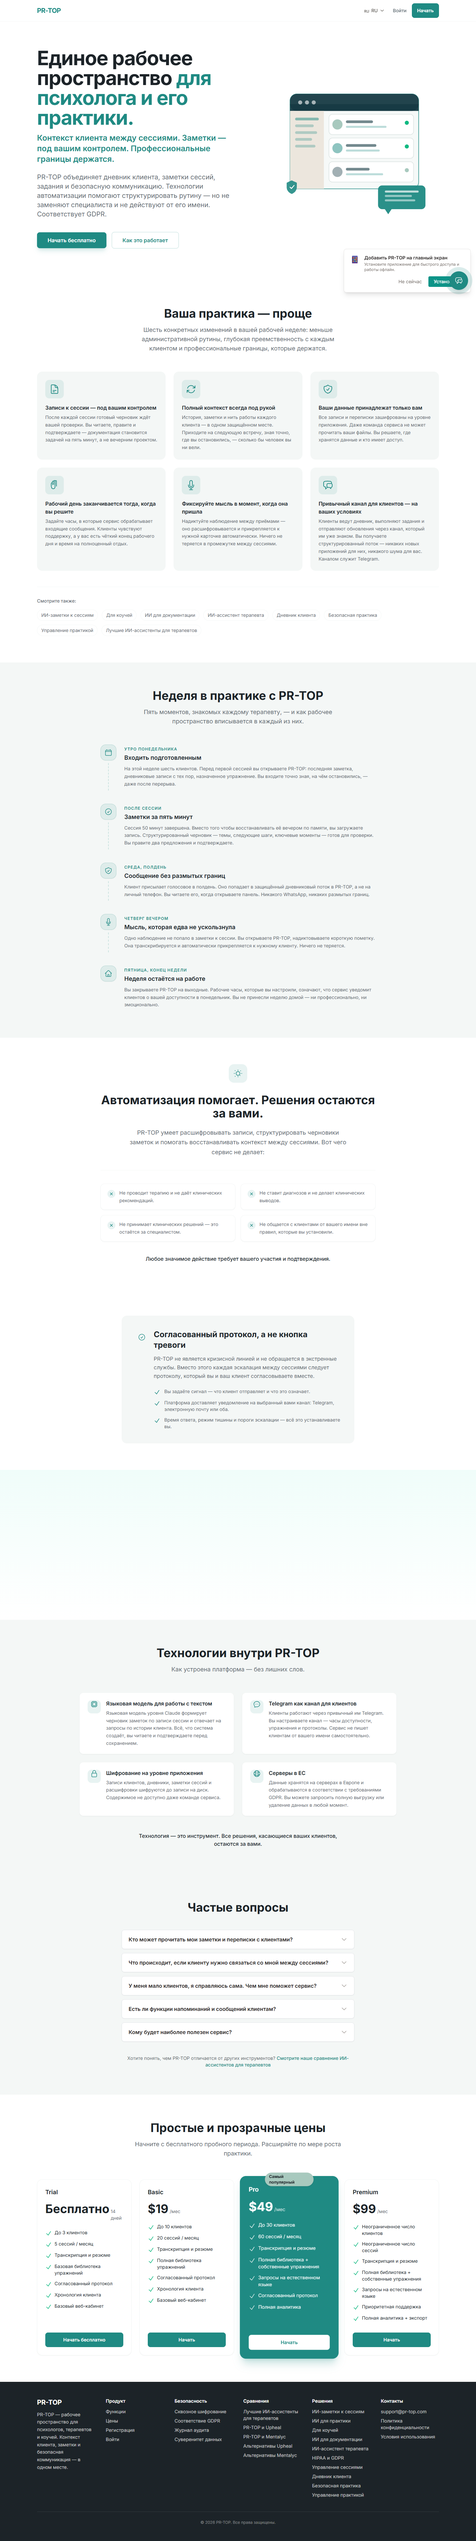
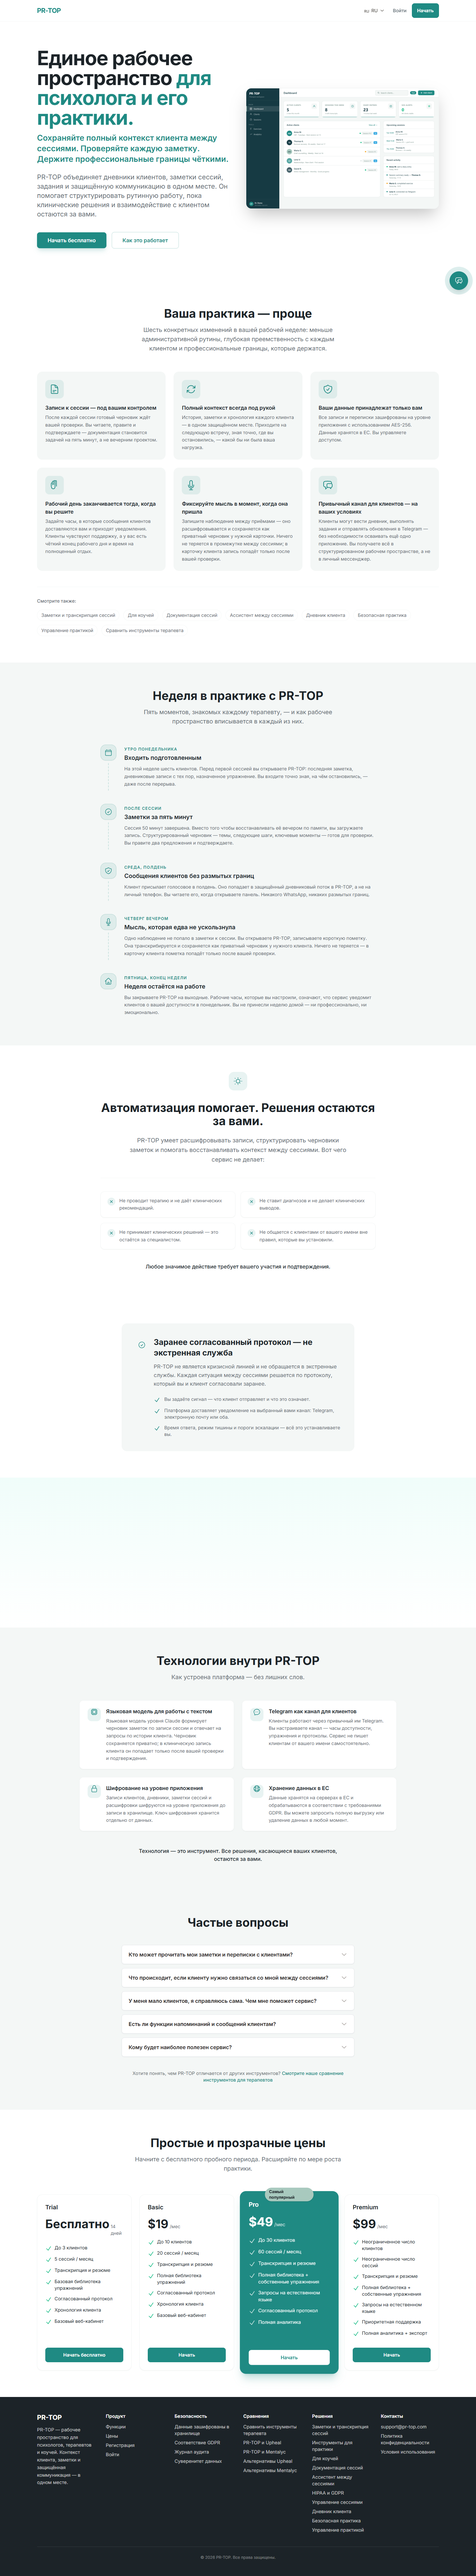
docs(seo): R21 fix pack from Wave-2 review + refresh review screenshots
Review findings on shipped R12-R20: R19 read its own empty template instead
of the owner-filled docs/seo/TRUST_FACTS.md (approved company facts absent
from the site); leftover 'end-to-end' heading on TherapyDocumentationAi;
hero .webp is a renamed PNG with a committed twin; screenshots skipped again
after R17/R18/R20 (re-captured here at 12:42).

diff --git a/docs/seo/AUTOFORGE_FEATURES_REPOSITIONING.md b/docs/seo/AUTOFORGE_FEATURES_REPOSITIONING.md
@@ -189,3 +189,12 @@ Source: second external UX audit after R1–R11 shipped. Verdict: the reposition
 1. Reword the label keys (all 4 locales); URLs and link count unchanged (assert in a puppeteer check: same hrefs before/after — snapshot the href list in the test).
 2. `node _t_link_graph_w6.js` passes (link-graph audit unchanged).
 3. Build + puppeteer `/` + `/ru/`: labels render, hrefs intact, no raw keys.
+
+### R21 — Wave-2 fix pack (findings of the 2026-07-14 R12–R20 review)
+**Description:** Four follow-ups from the owner-side review of the shipped Wave 2. **(a) R19 main defect — render the approved company facts.** The R19 agent created its own empty template at `docs/TRUST_FACTS.md` and never read the owner-filled **`docs/seo/TRUST_FACTS.md`** (the authoritative file, committed b1101c4). Result: `ProfessionalProofSection` renders nothing (`hasTrustFacts()` false) and the approved facts (ABH TEAM OÜ, registry code 14162982 with link to the public register, Estonia/EU, registered address, operating since 2016, support@pr-top.com) are absent from the site. Fix: extend the section (or a compact footer legal block) with a `legalEntity` fact group sourced from `docs/seo/TRUST_FACTS.md` "publish: yes" rows only, localized in all 4 locales; delete the duplicate `docs/TRUST_FACTS.md` and point every reference (trustFacts.js header comment) at `docs/seo/TRUST_FACTS.md`. Hard rules stay: no surnames, no personal codes, no invented numbers; testimonials/advisors arrays remain empty. **(b) R12 leftover:** `TherapyDocumentationAi.jsx` H2 "How PR-TOP handles therapy documentation end-to-end" — the phrase collides with the banned encryption term; reword (e.g. "…from session to record") in all locales that page has. **(c) R18 leftover:** `public/images/hero-dashboard.webp` is a renamed PNG (file magic `PNG`, 217 KB) and an identical `.png` twin is committed. Convert to real WebP (target ≤ 120 KB at 2560×1600 or downscale to 1920×1200), keep a single file, update the `<img src>`; verify `file`/magic bytes and visual quality. **(d) Screenshot freshness rule:** add the re-capture step (`node _t_screenshots.js`) to the definition-of-done of any feature touching landing copy or hero visuals — it was skipped again after R17/R18/R20 (the owner re-captured manually on 2026-07-14 12:42; keep them fresh going forward). Note the in-app stat card "SOS ALERTS" is visible in the hero screenshot — renaming that in-product label (e.g. "Protocol alerts") is a separate product decision; flag it to the owner in the PR, do not rename unilaterally.
+**Steps:**
+1. Implement the legalEntity block from `docs/seo/TRUST_FACTS.md`; grep the built `dist/index.html` (all 4 locales): contains `ABH TEAM OÜ` and `14162982`, zero matches for the withheld surnames/personal codes; register link resolves.
+2. `docs/TRUST_FACTS.md` deleted; `git grep -l "docs/TRUST_FACTS.md"` returns nothing (all references point to `docs/seo/TRUST_FACTS.md`).
+3. Reword the TherapyDocumentationAi heading; grep frontend src: zero case-insensitive `end-to-end` matches outside i18n keys already cleared by R12.
+4. Real WebP: magic bytes are `RIFF....WEBP`, size ≤ 120 KB, PNG twin removed from `public/`; puppeteer `/`: hero image loads (naturalWidth > 0), no visible quality loss at 2x.
+5. All audits green (`_t_r9_qa.js`, `_t_geo_audit.js`, `_t_seo_i18n_audit.js`, `_t_link_graph_w6.js`); re-capture the 4 review screenshots and commit them in the same PR.
